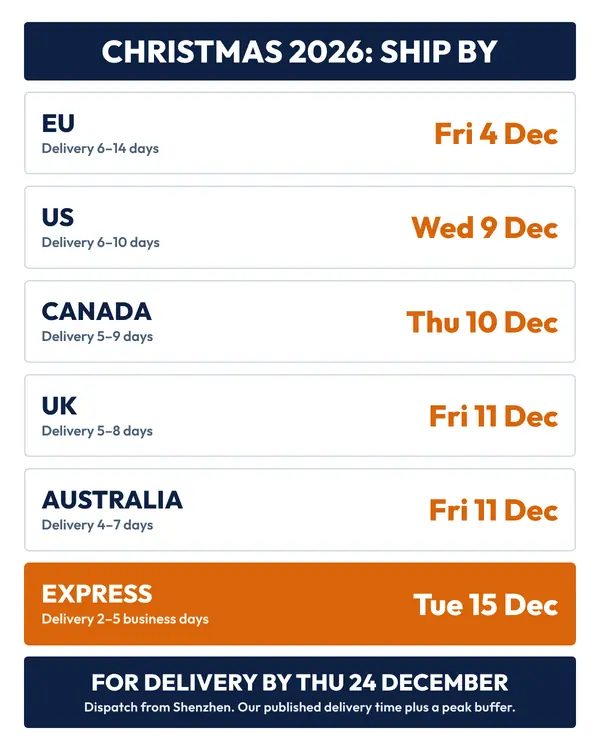
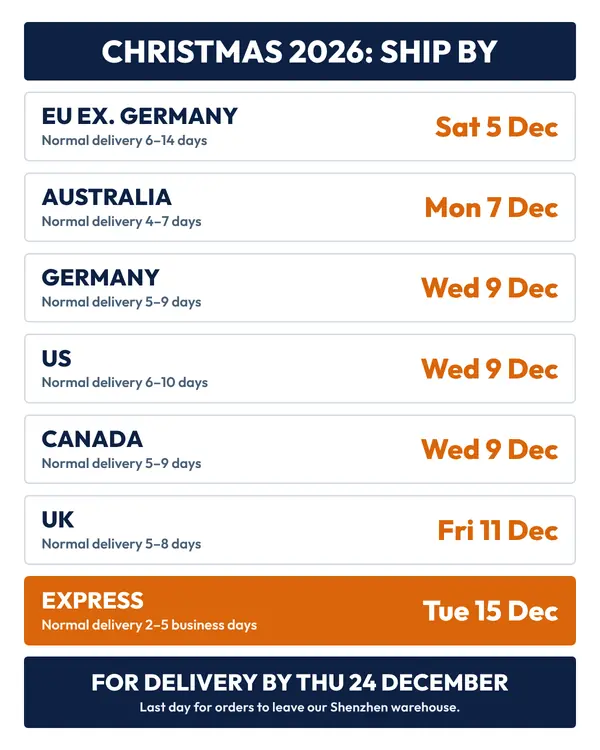
Christmas cut-offs confirmed by Noel; DDP duty refund position added
Christmas 2026 post and infographic now carry Noel's dispatch cut-offs
(24 Oct 2026): EU except Germany Sat 5 Dec, Australia Mon 7 Dec, Germany,
US and Canada Wed 9 Dec, UK Fri 11 Dec, express Tue 15 Dec. The calculated
"delivery time plus buffer" method is removed.

IEEPA refund post: "If you shipped DDP with us, the duty cannot be
refunded. On our DDP shipments, the duty is paid within the shipping price."

Both decisions recorded in CLAUDE.md standing decisions; CMS checklist
section 16 sign-offs updated (two smaller items still open).

Claude-Session: https://claude.ai/code/session_01TmbpM8axLPM1eM23nnQqqS

diff --git a/christmas-2026-shipping-deadlines-from-china.html b/christmas-2026-shipping-deadlines-from-china.html
@@ -20,7 +20,7 @@
   "@context": "https://schema.org",
   "@type": "Article",
   "headline": "Christmas 2026 Shipping Deadlines from China: The Last Dispatch Dates for D2C Orders",
-  "description": "The recommended last dates to dispatch D2C orders from a Shenzhen warehouse for delivery before Christmas 2026 in the US, UK, EU, Canada and Australia, the November calendar from Singles' Day to Cyber Monday, carrier peak surcharges, and what to do once the standard cut-off has passed.",
+  "description": "The last dates to dispatch D2C orders from a Shenzhen warehouse for delivery before Christmas 2026 in the US, UK, EU, Germany, Canada and Australia, the November calendar from Singles' Day to Cyber Monday, carrier peak surcharges, and what to do once the standard cut-off has passed.",
   "image": "https://www.china-fulfillment.com/images/blog/christmas-2026-shipping-deadlines-from-china.webp",
   "author": {
     "@type": "Person",
@@ -54,7 +54,7 @@
       "name": "What is the last day to ship from China for Christmas 2026?",
       "acceptedAnswer": {
         "@type": "Answer",
-        "text": "For delivery by 24 December 2026, we recommend dispatching standard D2C orders from Shenzhen by Friday 4 December for the EU, Wednesday 9 December for the US, Thursday 10 December for Canada, and Friday 11 December for the UK and Australia. Express courier orders can go until Tuesday 15 December. Each date is the slow end of our published delivery time plus a peak-season buffer."
+        "text": "For delivery by 24 December 2026, our cut-offs for standard D2C orders leaving Shenzhen are Saturday 5 December for the EU outside Germany, Monday 7 December for Australia, Wednesday 9 December for Germany, the US and Canada, and Friday 11 December for the UK. Express courier orders can go until Tuesday 15 December."
       }
     },
     {
@@ -62,7 +62,7 @@
       "name": "How long does shipping from China to the US take in December?",
       "acceptedAnswer": {
         "@type": "Answer",
-        "text": "Our standard D2C delivery time from Shenzhen to US customers is 6 to 10 days, and express couriers take 2 to 5 business days. In December, carrier and customs volumes are at their highest, so plan to the slow end of each range and add a buffer of several days rather than relying on the fast end."
+        "text": "Our standard D2C delivery time from Shenzhen to US customers is 6 to 10 days, and express couriers take 2 to 5 business days. December is slower, because carrier and customs volumes are at their highest, so for Christmas 2026 our US cut-off is Wednesday 9 December for standard orders and Tuesday 15 December for express."
       }
     },
     {
@@ -370,7 +370,7 @@ if(document.readyState==='loading')document.addEventListener('DOMContentLoaded',
 <div class="article">
   <div class="w">
     <blockquote>
-<p><strong>Quick answer:</strong> For delivery before <strong>Christmas Day, Friday 25 December 2026</strong>, dispatch standard D2C orders from Shenzhen by <strong>Friday 4 December for the EU</strong>, <strong>Wednesday 9 December for the US</strong>, <strong>Thursday 10 December for Canada</strong>, and <strong>Friday 11 December for the UK and Australia</strong>. Express courier orders can go until <strong>Tuesday 15 December</strong>. Each date is the slow end of our published delivery time plus a buffer for peak-season volumes. Set your store's cut-off a day or two earlier than the dispatch date, and switch to express-only after it.</p>
+<p><strong>Quick answer:</strong> For delivery before <strong>Christmas Day, Friday 25 December 2026</strong>, standard D2C orders must leave our Shenzhen warehouse by <strong>Saturday 5 December for the EU outside Germany</strong>, <strong>Monday 7 December for Australia</strong>, <strong>Wednesday 9 December for Germany, the US and Canada</strong>, and <strong>Friday 11 December for the UK</strong>. Express courier orders can go until <strong>Tuesday 15 December</strong>. Set your store's cut-off a day or two earlier than the dispatch date, and switch to express-only after it.</p>
 </blockquote>
 <p>Christmas is the one week of the year when "6 to 10 days" is not good enough as an answer. Your customer wants to know whether the gift arrives before the 25th, and you want to know the last day you can safely say yes.</p>
 <p>This guide gives the dates for each main market, explains why they sit earlier than the normal transit time, and covers the November calendar that comes first. It is written for brands shipping orders direct to consumers from a warehouse in China.</p>
@@ -380,15 +380,25 @@ if(document.readyState==='loading')document.addEventListener('DOMContentLoaded',
 <thead>
 <tr>
 <th>Market</th>
-<th>Our published delivery time</th>
-<th>Recommended last dispatch</th>
+<th>Normal delivery time</th>
+<th>Christmas dispatch cut-off</th>
 </tr>
 </thead>
 <tbody>
 <tr>
-<td>European Union</td>
+<td>European Union, except Germany</td>
 <td>6–14 days</td>
-<td><strong>Friday 4 December</strong></td>
+<td><strong>Saturday 5 December</strong></td>
+</tr>
+<tr>
+<td>Australia</td>
+<td>4–7 days</td>
+<td><strong>Monday 7 December</strong></td>
+</tr>
+<tr>
+<td>Germany</td>
+<td>5–9 days</td>
+<td><strong>Wednesday 9 December</strong></td>
 </tr>
 <tr>
 <td>United States</td>
@@ -398,16 +408,11 @@ if(document.readyState==='loading')document.addEventListener('DOMContentLoaded',
 <tr>
 <td>Canada</td>
 <td>5–9 days</td>
-<td><strong>Thursday 10 December</strong></td>
+<td><strong>Wednesday 9 December</strong></td>
 </tr>
 <tr>
 <td>United Kingdom</td>
 <td>5–8 days</td>
-<td><strong>Friday 11 December</strong></td>
-</tr>
-<tr>
-<td>Australia</td>
-<td>4–7 days</td>
 <td><strong>Friday 11 December</strong></td>
 </tr>
 <tr>
@@ -417,9 +422,9 @@ if(document.readyState==='loading')document.addEventListener('DOMContentLoaded',
 </tr>
 </tbody>
 </table></div>
-<p><strong>How we set them.</strong> Each standard date takes the slow end of our published delivery range and adds five days for peak-season volumes. The express date adds two business days to the slowest express time. Where the result fell on a weekend, we moved it to the Friday before.</p>
+<p><strong>Why the cut-offs are well ahead of the normal delivery time.</strong> These are our operations team's cut-offs for each lane. Peak volumes slow every lane in December, some more than others, so a cut-off is not simply the normal transit time counted back from Christmas Eve.</p>
 <p><strong>Your store's cut-off should be earlier.</strong> An order placed at 11 pm on 9 December is not dispatched on 9 December. Put your "order by" date a day or two ahead of the dispatch date, and confirm our daily dispatch cut-off time with your account manager.</p>
-<p><img src="/images/blog/infographic-christmas-2026-dispatch-dates.webp" srcset="/images/blog/infographic-christmas-2026-dispatch-dates-600w.webp 600w, /images/blog/infographic-christmas-2026-dispatch-dates-900w.webp 900w, /images/blog/infographic-christmas-2026-dispatch-dates.webp 1200w" sizes="(max-width: 844px) 90vw, 760px" alt="Christmas 2026 last dispatch dates from Shenzhen for delivery by 24 December: EU Friday 4 December, US Wednesday 9 December, Canada Thursday 10 December, UK and Australia Friday 11 December, express Tuesday 15 December" width="1200" height="1500" loading="lazy" decoding="async"/></p>
+<p><img src="/images/blog/infographic-christmas-2026-dispatch-dates.webp" srcset="/images/blog/infographic-christmas-2026-dispatch-dates-600w.webp 600w, /images/blog/infographic-christmas-2026-dispatch-dates-900w.webp 900w, /images/blog/infographic-christmas-2026-dispatch-dates.webp 1200w" sizes="(max-width: 844px) 90vw, 760px" alt="Christmas 2026 dispatch cut-offs from Shenzhen for delivery by 24 December: EU except Germany Saturday 5 December, Australia Monday 7 December, Germany, US and Canada Wednesday 9 December, UK Friday 11 December, express Tuesday 15 December" width="1200" height="1500" loading="lazy" decoding="async"/></p>
 <h2>Why the cut-offs come earlier than the transit time</h2>
 <p><strong>Carriers are at full stretch.</strong> DHL Express applies a demand surcharge to its international time-definite and day-definite services from <strong>1 October 2026 to 5 February 2027</strong>. FedEx's 2026 peak pricing in the US runs until 17 January and is highest from <strong>23 November to 27 December</strong>. Surcharges are the visible part. The invisible part is that hubs and delivery routes run full, and a parcel that misses one connection waits for the next.</p>
 <p><strong>Every US parcel now clears customs individually.</strong> The US de minimis exemption is still suspended, so each parcel from China needs a customs entry and pays duty. Parcels with vague descriptions, missing HTS codes or values that do not match the invoice get held. In December, held means late. Our guide to <a href="shipping-d2c-orders-china-to-us-2027.html">shipping D2C orders from China to the US in 2027</a> explains what each parcel pays and how it is collected.</p>
@@ -455,7 +460,7 @@ if(document.readyState==='loading')document.addEventListener('DOMContentLoaded',
 <td>The second spike, and the start of the run to the Christmas cut-offs</td>
 </tr>
 <tr>
-<td>Fri 4 to Fri 11 December</td>
+<td>Sat 5 to Fri 11 December</td>
 <td>Standard cut-offs by market</td>
 <td>Switch each market to express-only as its date passes</td>
 </tr>
@@ -470,7 +475,7 @@ if(document.readyState==='loading')document.addEventListener('DOMContentLoaded',
 <h2>Market by market</h2>
 <p><strong>United States.</strong> Ship DDP so the duty is paid before the parcel arrives and your customer is never asked for money at the door. A gift that arrives with a duty bill attached is the fastest way to a refund request. Our <a href="ddp-shipping-from-china-explained-2026.html">DDP explainer</a> covers how it works.</p>
 <p><strong>United Kingdom.</strong> For orders of £135 or less, UK VAT is charged at checkout, so the parcel itself carries no doorstep bill. Our <a href="china-to-uk-fulfilment-shopify.html">UK fulfilment guide</a> covers the rule.</p>
-<p><strong>European Union.</strong> Since 1 July 2026 the EU charges a flat €3 per item category on low-value parcels, alongside VAT collected through IOSS. Parcels with missing or wrong IOSS data are the ones held at the border. Our <a href="eu-de-minimis-2026-customs-duty-guide.html">EU de minimis guide</a> explains it.</p>
+<p><strong>European Union.</strong> Since 1 July 2026 the EU charges a flat €3 per item category on low-value parcels, alongside VAT collected through IOSS. Parcels with missing or wrong IOSS data are the ones held at the border. Our <a href="eu-de-minimis-2026-customs-duty-guide.html">EU de minimis guide</a> explains it. Germany has a later cut-off than the rest of the EU, 9 December rather than 5 December, so if you show one EU date on your store, use the earlier one.</p>
 <p><strong>Canada.</strong> The de minimis for goods from China is only CAD$20, so most gifts are dutiable and taxable. Ship DDP. See our <a href="china-to-canada-fulfillment-2026.html">Canada guide</a>.</p>
 <p><strong>Australia.</strong> For orders of A$1,000 or less, GST is collected at checkout by a GST-registered seller or marketplace. See our <a href="china-to-australia-fulfillment-2026.html">Australia guide</a>.</p>
 <h2>After the standard cut-off: sell the upgrade</h2>
@@ -492,9 +497,9 @@ if(document.readyState==='loading')document.addEventListener('DOMContentLoaded',
 <p>We pick, pack and ship D2C orders from our warehouse in Shenzhen, for Shopify, WooCommerce and TikTok Shop brands and for crowdfunding creators. Pick and pack is <strong>$0.99 per order</strong>, with standard mailers and small boxes included. Orders ship by express and postal lines to more than 200 countries, DDP to the US, UK, EU, Canada and Australia. New customers get <strong>30 days' free storage</strong> when their first order ships within those 30 days.</p>
 <p>If you are moving fulfilment to China before the peak, the earlier the better. Stock received in early November is calm. Stock received the week before Black Friday is not.</p>
 <h2>The bottom line</h2>
-<p>Christmas 2026 falls on a Friday, and the realistic last dispatch dates from China run from <strong>4 December for the EU to 11 December for the UK and Australia</strong>, with express until <strong>15 December</strong>. Put your store cut-offs a day or two earlier, have peak stock in place before Black Friday, ship DDP with clean customs data, and switch to express-only once each standard date has passed.</p>
+<p>Christmas 2026 falls on a Friday, and the last dispatch dates from our Shenzhen warehouse run from <strong>5 December for most of the EU</strong> and <strong>7 December for Australia</strong> to <strong>9 December for Germany, the US and Canada</strong> and <strong>11 December for the UK</strong>, with express until <strong>15 December</strong>. Put your store cut-offs a day or two earlier, have peak stock in place before Black Friday, ship DDP with clean customs data, and switch to express-only once each standard date has passed.</p>
 <p><a href="Contact-Us.html">Tell us about your Christmas volumes</a> and we will confirm the cut-offs for your markets and products.</p>
-<p>These dates are our recommendation as at 24 October 2026, based on our published delivery times plus a peak buffer. Carriers can change peak operations at short notice; your account manager will confirm the final dates for your lanes.</p>
+<p>These are our Christmas 2026 dispatch cut-offs as at 24 October 2026. Carriers can change peak operations at short notice; if a date moves, your account manager will tell you.</p>
   </div>
 </div>
 <div class="ctaf">
@@ -509,11 +514,11 @@ if(document.readyState==='loading')document.addEventListener('DOMContentLoaded',
     <h2>Frequently Asked Questions</h2>
     <details>
      <summary>What is the last day to ship from China for Christmas 2026?</summary>
-     <p>For delivery by 24 December 2026, we recommend dispatching standard D2C orders from Shenzhen by Friday 4 December for the EU, Wednesday 9 December for the US, Thursday 10 December for Canada, and Friday 11 December for the UK and Australia. Express courier orders can go until Tuesday 15 December. Each date is the slow end of our published delivery time plus a peak-season buffer.</p>
+     <p>For delivery by 24 December 2026, our cut-offs for standard D2C orders leaving Shenzhen are Saturday 5 December for the EU outside Germany, Monday 7 December for Australia, Wednesday 9 December for Germany, the US and Canada, and Friday 11 December for the UK. Express courier orders can go until Tuesday 15 December.</p>
     </details>
     <details>
      <summary>How long does shipping from China to the US take in December?</summary>
-     <p>Our standard D2C delivery time from Shenzhen to US customers is 6 to 10 days, and express couriers take 2 to 5 business days. In December, carrier and customs volumes are at their highest, so plan to the slow end of each range and add a buffer of several days rather than relying on the fast end.</p>
+     <p>Our standard D2C delivery time from Shenzhen to US customers is 6 to 10 days, and express couriers take 2 to 5 business days. December is slower, because carrier and customs volumes are at their highest, so for Christmas 2026 our US cut-off is Wednesday 9 December for standard orders and Tuesday 15 December for express.</p>
     </details>
     <details>
      <summary>Do carriers charge extra to ship during the holiday season?</summary>

diff --git a/ieepa-tariff-refunds-china-sellers-2026.html b/ieepa-tariff-refunds-china-sellers-2026.html
@@ -515,6 +515,7 @@ if(document.readyState==='loading')document.addEventListener('DOMContentLoaded',
 </ol>
 <h2>Where we sit in this</h2>
 <p><strong>We are not a customs broker, we cannot file CAPE declarations, and we cannot advise you on a refund claim.</strong> Those decisions belong with your importer of record and a licensed broker or trade attorney.</p>
+<p><strong>If you shipped DDP with us, the duty cannot be refunded.</strong> On our DDP shipments, the duty is paid within the shipping price.</p>
 <p>What we can do is help with the records. For goods that left our Shenzhen warehouse, we hold the commercial invoices, packing lists, HTS codes and declared values, ship dates and tracking numbers, which are what brokers ask for when they match entries to refunds. If you shipped through us and need them, ask your account manager.</p>
 <p>The wider lesson from 2026 is that the importer of record matters. When duty is refunded, or audited, or challenged, CBP deals with the name on the entry. Our guides to <a href="ddp-shipping-from-china-explained-2026.html">DDP shipping</a> and <a href="shipping-d2c-orders-china-to-us-2027.html">shipping D2C orders from China to the US in 2027</a> explain how that works for parcels today, and creators planning their next campaign should read our guide to <a href="kickstarter-indiegogo-shipping-duties-2027.html">Kickstarter and Indiegogo shipping in 2027</a>.</p>
 <h2>The bottom line</h2>

diff --git a/scripts/infographics/2026-11/make_infographics.py b/scripts/infographics/2026-11/make_infographics.py
@@ -151,25 +151,27 @@ page("infographic-ieepa-refund-who-gets-paid",
 # ---------------------------------------------------------------------------
 
 # 5. Christmas 2026 last dispatch dates -------------------------------------
+# Cut-offs confirmed by Noel, 24 Oct 2026 (US, UK and express unchanged from the first draft).
 dates = [
-    ("EU", "6&ndash;14 days", "Fri 4 Dec"),
+    ("EU ex. Germany", "6&ndash;14 days", "Sat 5 Dec"),
+    ("Australia", "4&ndash;7 days", "Mon 7 Dec"),
+    ("Germany", "5&ndash;9 days", "Wed 9 Dec"),
     ("US", "6&ndash;10 days", "Wed 9 Dec"),
-    ("Canada", "5&ndash;9 days", "Thu 10 Dec"),
+    ("Canada", "5&ndash;9 days", "Wed 9 Dec"),
     ("UK", "5&ndash;8 days", "Fri 11 Dec"),
-    ("Australia", "4&ndash;7 days", "Fri 11 Dec"),
     ("Express", "2&ndash;5 business days", "Tue 15 Dec"),
 ]
 rows = ""
 for i, (mk, tt, dt) in enumerate(dates):
     cls = "card or" if mk == "Express" else "card"
     sm = "class='small' style='font-size:28px;color:#fff;opacity:.92'" if mk == "Express" else "class='small' style='font-size:28px'"
-    rows += ("<div class='%s' style='padding:16px 32px;justify-content:space-between'>"
-             "<div><div class='lbl' style='font-size:50px'>%s</div><div %s>Delivery %s</div></div>"
-             "<div class='lbl nc' style='font-size:60px;color:%s;white-space:nowrap'>%s</div></div>"
+    rows += ("<div class='%s' style='padding:10px 32px;justify-content:space-between'>"
+             "<div><div class='lbl' style='font-size:46px'>%s</div><div %s>Normal delivery %s</div></div>"
+             "<div class='lbl nc' style='font-size:56px;color:%s;white-space:nowrap'>%s</div></div>"
              % (cls, mk, sm, tt, "#fff" if mk == "Express" else ORANGE, dt))
 page("infographic-christmas-2026-dispatch-dates",
      "<div class='title'>Christmas 2026: ship by</div><div class='fill'>" + rows + "</div>"
-     "<div class='foot nv'>For delivery by Thu 24 December<div class='small'>Dispatch from Shenzhen. Our published delivery time plus a peak buffer.</div></div>")
+     "<div class='foot nv'>For delivery by Thu 24 December<div class='small'>Last day for orders to leave our Shenzhen warehouse.</div></div>")
 
 # 6. US D2C parcel from China: what it pays ----------------------------------
 page("infographic-us-d2c-parcel-duty-2027",

diff --git a/data/content/drafts/christmas-2026-shipping-deadlines-from-china.md b/data/content/drafts/christmas-2026-shipping-deadlines-from-china.md
@@ -27,7 +27,7 @@ og_image: /images/blog/christmas-2026-shipping-deadlines-from-china.webp
   "@context": "https://schema.org",
   "@type": "Article",
   "headline": "Christmas 2026 Shipping Deadlines from China: The Last Dispatch Dates for D2C Orders",
-  "description": "The recommended last dates to dispatch D2C orders from a Shenzhen warehouse for delivery before Christmas 2026 in the US, UK, EU, Canada and Australia, the November calendar from Singles' Day to Cyber Monday, carrier peak surcharges, and what to do once the standard cut-off has passed.",
+  "description": "The last dates to dispatch D2C orders from a Shenzhen warehouse for delivery before Christmas 2026 in the US, UK, EU, Germany, Canada and Australia, the November calendar from Singles' Day to Cyber Monday, carrier peak surcharges, and what to do once the standard cut-off has passed.",
   "image": "https://www.china-fulfillment.com/images/blog/christmas-2026-shipping-deadlines-from-china.webp",
   "author": {
     "@type": "Person",
@@ -62,7 +62,7 @@ og_image: /images/blog/christmas-2026-shipping-deadlines-from-china.webp
       "name": "What is the last day to ship from China for Christmas 2026?",
       "acceptedAnswer": {
         "@type": "Answer",
-        "text": "For delivery by 24 December 2026, we recommend dispatching standard D2C orders from Shenzhen by Friday 4 December for the EU, Wednesday 9 December for the US, Thursday 10 December for Canada, and Friday 11 December for the UK and Australia. Express courier orders can go until Tuesday 15 December. Each date is the slow end of our published delivery time plus a peak-season buffer."
+        "text": "For delivery by 24 December 2026, our cut-offs for standard D2C orders leaving Shenzhen are Saturday 5 December for the EU outside Germany, Monday 7 December for Australia, Wednesday 9 December for Germany, the US and Canada, and Friday 11 December for the UK. Express courier orders can go until Tuesday 15 December."
       }
     },
     {
@@ -70,7 +70,7 @@ og_image: /images/blog/christmas-2026-shipping-deadlines-from-china.webp
       "name": "How long does shipping from China to the US take in December?",
       "acceptedAnswer": {
         "@type": "Answer",
-        "text": "Our standard D2C delivery time from Shenzhen to US customers is 6 to 10 days, and express couriers take 2 to 5 business days. In December, carrier and customs volumes are at their highest, so plan to the slow end of each range and add a buffer of several days rather than relying on the fast end."
+        "text": "Our standard D2C delivery time from Shenzhen to US customers is 6 to 10 days, and express couriers take 2 to 5 business days. December is slower, because carrier and customs volumes are at their highest, so for Christmas 2026 our US cut-off is Wednesday 9 December for standard orders and Tuesday 15 December for express."
       }
     },
     {
@@ -113,7 +113,7 @@ og_image: /images/blog/christmas-2026-shipping-deadlines-from-china.webp
 
 ![Christmas gifts wrapped in brown paper and red twine with festive tags, the kind of orders that need to leave China in early December to arrive before Christmas](/images/blog/christmas-2026-shipping-deadlines-from-china.webp)
 
-> **Quick answer:** For delivery before **Christmas Day, Friday 25 December 2026**, dispatch standard D2C orders from Shenzhen by **Friday 4 December for the EU**, **Wednesday 9 December for the US**, **Thursday 10 December for Canada**, and **Friday 11 December for the UK and Australia**. Express courier orders can go until **Tuesday 15 December**. Each date is the slow end of our published delivery time plus a buffer for peak-season volumes. Set your store's cut-off a day or two earlier than the dispatch date, and switch to express-only after it.
+> **Quick answer:** For delivery before **Christmas Day, Friday 25 December 2026**, standard D2C orders must leave our Shenzhen warehouse by **Saturday 5 December for the EU outside Germany**, **Monday 7 December for Australia**, **Wednesday 9 December for Germany, the US and Canada**, and **Friday 11 December for the UK**. Express courier orders can go until **Tuesday 15 December**. Set your store's cut-off a day or two earlier than the dispatch date, and switch to express-only after it.
 
 Christmas is the one week of the year when "6 to 10 days" is not good enough as an answer. Your customer wants to know whether the gift arrives before the 25th, and you want to know the last day you can safely say yes.
 
@@ -123,20 +123,21 @@ This guide gives the dates for each main market, explains why they sit earlier t
 
 These are the dates by which an order should **leave our Shenzhen warehouse** to reach the customer by Thursday 24 December.
 
-| Market | Our published delivery time | Recommended last dispatch |
+| Market | Normal delivery time | Christmas dispatch cut-off |
 |---|---|---|
-| European Union | 6–14 days | **Friday 4 December** |
+| European Union, except Germany | 6–14 days | **Saturday 5 December** |
+| Australia | 4–7 days | **Monday 7 December** |
+| Germany | 5–9 days | **Wednesday 9 December** |
 | United States | 6–10 days | **Wednesday 9 December** |
-| Canada | 5–9 days | **Thursday 10 December** |
+| Canada | 5–9 days | **Wednesday 9 December** |
 | United Kingdom | 5–8 days | **Friday 11 December** |
-| Australia | 4–7 days | **Friday 11 December** |
 | Express upgrade, any of the above | 2–5 business days | **Tuesday 15 December** |
 
-**How we set them.** Each standard date takes the slow end of our published delivery range and adds five days for peak-season volumes. The express date adds two business days to the slowest express time. Where the result fell on a weekend, we moved it to the Friday before.
+**Why the cut-offs are well ahead of the normal delivery time.** These are our operations team's cut-offs for each lane. Peak volumes slow every lane in December, some more than others, so a cut-off is not simply the normal transit time counted back from Christmas Eve.
 
 **Your store's cut-off should be earlier.** An order placed at 11 pm on 9 December is not dispatched on 9 December. Put your "order by" date a day or two ahead of the dispatch date, and confirm our daily dispatch cut-off time with your account manager.
 
-![Christmas 2026 last dispatch dates from Shenzhen for delivery by 24 December: EU Friday 4 December, US Wednesday 9 December, Canada Thursday 10 December, UK and Australia Friday 11 December, express Tuesday 15 December](/images/blog/infographic-christmas-2026-dispatch-dates.webp)
+![Christmas 2026 dispatch cut-offs from Shenzhen for delivery by 24 December: EU except Germany Saturday 5 December, Australia Monday 7 December, Germany, US and Canada Wednesday 9 December, UK Friday 11 December, express Tuesday 15 December](/images/blog/infographic-christmas-2026-dispatch-dates.webp)
 
 ## Why the cut-offs come earlier than the transit time
 
@@ -154,7 +155,7 @@ These are the dates by which an order should **leave our Shenzhen warehouse** to
 | Thu 26 November | US Thanksgiving | US carriers run reduced services |
 | Fri 27 November | Black Friday | Your order volume jumps; make sure stock is already in our warehouse |
 | Mon 30 November | Cyber Monday | The second spike, and the start of the run to the Christmas cut-offs |
-| Fri 4 to Fri 11 December | Standard cut-offs by market | Switch each market to express-only as its date passes |
+| Sat 5 to Fri 11 December | Standard cut-offs by market | Switch each market to express-only as its date passes |
 | Tue 15 December | Express cut-off | After this, sell gift cards or January delivery |
 
 **Stock has to be in place before Black Friday.** Goods arriving at our warehouse during the peak still get received, but they are competing with everyone else's peak stock for the same docks. Aim to have Q4 inventory received, counted and ready to pick by mid-November. Receiving is free.
@@ -165,7 +166,7 @@ These are the dates by which an order should **leave our Shenzhen warehouse** to
 
 **United Kingdom.** For orders of £135 or less, UK VAT is charged at checkout, so the parcel itself carries no doorstep bill. Our [UK fulfilment guide](china-to-uk-fulfilment-shopify.html) covers the rule.
 
-**European Union.** Since 1 July 2026 the EU charges a flat €3 per item category on low-value parcels, alongside VAT collected through IOSS. Parcels with missing or wrong IOSS data are the ones held at the border. Our [EU de minimis guide](eu-de-minimis-2026-customs-duty-guide.html) explains it.
+**European Union.** Since 1 July 2026 the EU charges a flat €3 per item category on low-value parcels, alongside VAT collected through IOSS. Parcels with missing or wrong IOSS data are the ones held at the border. Our [EU de minimis guide](eu-de-minimis-2026-customs-duty-guide.html) explains it. Germany has a later cut-off than the rest of the EU, 9 December rather than 5 December, so if you show one EU date on your store, use the earlier one.
 
 **Canada.** The de minimis for goods from China is only CAD$20, so most gifts are dutiable and taxable. Ship DDP. See our [Canada guide](china-to-canada-fulfillment-2026.html).
 
@@ -199,8 +200,8 @@ If you are moving fulfilment to China before the peak, the earlier the better. S
 
 ## The bottom line
 
-Christmas 2026 falls on a Friday, and the realistic last dispatch dates from China run from **4 December for the EU to 11 December for the UK and Australia**, with express until **15 December**. Put your store cut-offs a day or two earlier, have peak stock in place before Black Friday, ship DDP with clean customs data, and switch to express-only once each standard date has passed.
+Christmas 2026 falls on a Friday, and the last dispatch dates from our Shenzhen warehouse run from **5 December for most of the EU** and **7 December for Australia** to **9 December for Germany, the US and Canada** and **11 December for the UK**, with express until **15 December**. Put your store cut-offs a day or two earlier, have peak stock in place before Black Friday, ship DDP with clean customs data, and switch to express-only once each standard date has passed.
 
 [Tell us about your Christmas volumes](Contact-Us.html) and we will confirm the cut-offs for your markets and products.
 
-These dates are our recommendation as at 24 October 2026, based on our published delivery times plus a peak buffer. Carriers can change peak operations at short notice; your account manager will confirm the final dates for your lanes.
+These are our Christmas 2026 dispatch cut-offs as at 24 October 2026. Carriers can change peak operations at short notice; if a date moves, your account manager will tell you.

diff --git a/CMS-UPDATE-CHECKLIST.md b/CMS-UPDATE-CHECKLIST.md
@@ -168,9 +168,11 @@ For **D2C ecommerce brands and crowdfunding creators** shipping direct to consum
 
 That is 28 image files. The heroes are licensed Pexels stock photos and the infographics were built from HTML, so no AI images; sources are in `IMAGE-BRIEFS-tier12-november-2026.md`.
 
-**Two sign-offs from Noel before these go live:**
-- [ ] **Christmas dispatch dates.** The Christmas post recommends dispatching from Shenzhen by **Fri 4 Dec (EU), Wed 9 Dec (US), Thu 10 Dec (Canada), Fri 11 Dec (UK and Australia)** and **Tue 15 Dec (express)**, built from our published delivery times plus a five-day peak buffer. Confirm the dates, that the warehouse works normally over Christmas, and the daily dispatch cut-off time customers should be told. If a date changes, update the post and its infographic together (ask Claude).
-- [ ] **IEEPA refund post.** It tells sellers that refunds go to whoever was importer of record, and to ask their DDP provider in writing. Decide what we tell any customer who shipped DDP with us and asks about a refund, and confirm we are happy to send shipment records (invoices, packing lists, HTS codes, values, tracking) on request, as the post offers.
+**Sign-offs from Noel:**
+- [x] **Christmas dispatch dates: confirmed by Noel, 24 October 2026.** EU except Germany Sat 5 Dec, Australia Mon 7 Dec, Germany, US and Canada Wed 9 Dec, UK Fri 11 Dec, express Tue 15 Dec. The post and its infographic carry these dates.
+- [ ] **Christmas post, still to confirm:** that the warehouse works normally over Christmas (the post says Christmas is a normal working day in China and Shenzhen keeps dispatching), and the daily dispatch cut-off time customers should be told.
+- [x] **IEEPA refund post: Noel's position added, 24 October 2026.** The post now says: "If you shipped DDP with us, the duty cannot be refunded. On our DDP shipments, the duty is paid within the shipping price."
+- [ ] **IEEPA refund post, still to confirm:** that we are happy to send shipment records (invoices, packing lists, HTS codes, values, tracking) on request, as the post offers.
 
 Then:
 - [ ] Publish the four pages. Keep both `application/ld+json` blocks in each.

diff --git a/CLAUDE.md b/CLAUDE.md
@@ -72,10 +72,13 @@ Recorded as Noel decided them, with dates where known.
 - Contact email on the site: **support@china-fulfillment.com**.
 - Delivery times: **6–10 days to the US, 5–8 days to the UK, 6–14 days to the EU**.
 
+**Christmas 2026 dispatch cut-offs** (Noel, 24 Oct 2026): "australia 7 december -- canada 9th december germany 9th rest of eu 5th". US Wed 9 Dec, UK Fri 11 Dec and express Tue 15 Dec were proposed and not changed. Rest of EU 5 December is a Saturday. Used in `christmas-2026-shipping-deadlines-from-china` and its infographic.
+
 **Legal, tax and VAT position**
 - Tax, VAT and IOSS registration, importer of record, customs bonds, FDA, MoCRA and FSVP, and dangerous-goods certification are the **seller's or manufacturer's** responsibility, not the 3PL's.
 - On DDP shipments, duty is paid within the shipping price, but the importer's obligations stay with the seller.
 - EU importer for distance sales: **1 July 2028** ("go with what is the most widely published").
+- **DDP duty refunds** (Noel, 24 Oct 2026, asked what to tell customers who shipped DDP with us about IEEPA refunds): "duty cannoyt be refuned". Published as: "If you shipped DDP with us, the duty cannot be refunded."
 
 **Images** (24 Oct 2026): "Use real photos from file or from free image services like pexels and other before using ai generated content." Record each stock photo's source, photographer and licence in the batch's `IMAGE-BRIEFS-tierN.md`. Infographics are rendered from HTML (`scripts/infographics/`), not generated.
 

diff --git a/IMAGE-BRIEFS-tier12-november-2026.md b/IMAGE-BRIEFS-tier12-november-2026.md
@@ -37,7 +37,7 @@ Rendered from HTML in the site font (Outfit) and brand navy and orange, flat on 
 
 | File | Figures and their sources |
 |---|---|
-| `infographic-christmas-2026-dispatch-dates.webp` | Our published delivery times by market (US 6–10, UK 5–8, EU 6–14, Canada 5–9, Australia 4–7 days; express 2–5 business days) plus a peak buffer; **dates need Noel's sign-off** (CMS checklist §16) |
+| `infographic-christmas-2026-dispatch-dates.webp` | Christmas 2026 dispatch cut-offs confirmed by Noel on 24 Oct 2026 (EU except Germany 5 Dec, Australia 7 Dec, Germany, US and Canada 9 Dec, UK 11 Dec, express 15 Dec), shown with our normal delivery times |
 | `infographic-us-d2c-parcel-duty-2027.webp` | 12.5% Section 301 forced labor duty from 24 July 2026; Section 301 lists 7.5–100%; IEEPA collection ended 24 Feb 2026 (CBP CSMS); de minimis suspended, repealed from 1 July 2027; Entry Type 13 from 20 Jan 2027 (CBP, 14 Oct 2026) |
 | `infographic-crowdfunding-reward-shipping-2027.webp` | US no threshold; EU €3 per item category from 1 July 2026; UK £135 VAT at sale; Canada CAD$20; Australia A$1,000 GST at sale (as in our market guides) |
 | `infographic-ieepa-refund-who-gets-paid.webp` | CBP pays CAPE refunds by ACH to the importer of record; Section 122 and 301 not covered |

diff --git a/data/content/drafts/ieepa-tariff-refunds-china-sellers-2026.md b/data/content/drafts/ieepa-tariff-refunds-china-sellers-2026.md
@@ -205,6 +205,8 @@ Policies change, so check each carrier's current page. CBP said the first refund
 
 **We are not a customs broker, we cannot file CAPE declarations, and we cannot advise you on a refund claim.** Those decisions belong with your importer of record and a licensed broker or trade attorney.
 
+**If you shipped DDP with us, the duty cannot be refunded.** On our DDP shipments, the duty is paid within the shipping price.
+
 What we can do is help with the records. For goods that left our Shenzhen warehouse, we hold the commercial invoices, packing lists, HTS codes and declared values, ship dates and tracking numbers, which are what brokers ask for when they match entries to refunds. If you shipped through us and need them, ask your account manager.
 
 The wider lesson from 2026 is that the importer of record matters. When duty is refunded, or audited, or challenged, CBP deals with the name on the entry. Our guides to [DDP shipping](ddp-shipping-from-china-explained-2026.html) and [shipping D2C orders from China to the US in 2027](shipping-d2c-orders-china-to-us-2027.html) explain how that works for parcels today, and creators planning their next campaign should read our guide to [Kickstarter and Indiegogo shipping in 2027](kickstarter-indiegogo-shipping-duties-2027.html).
